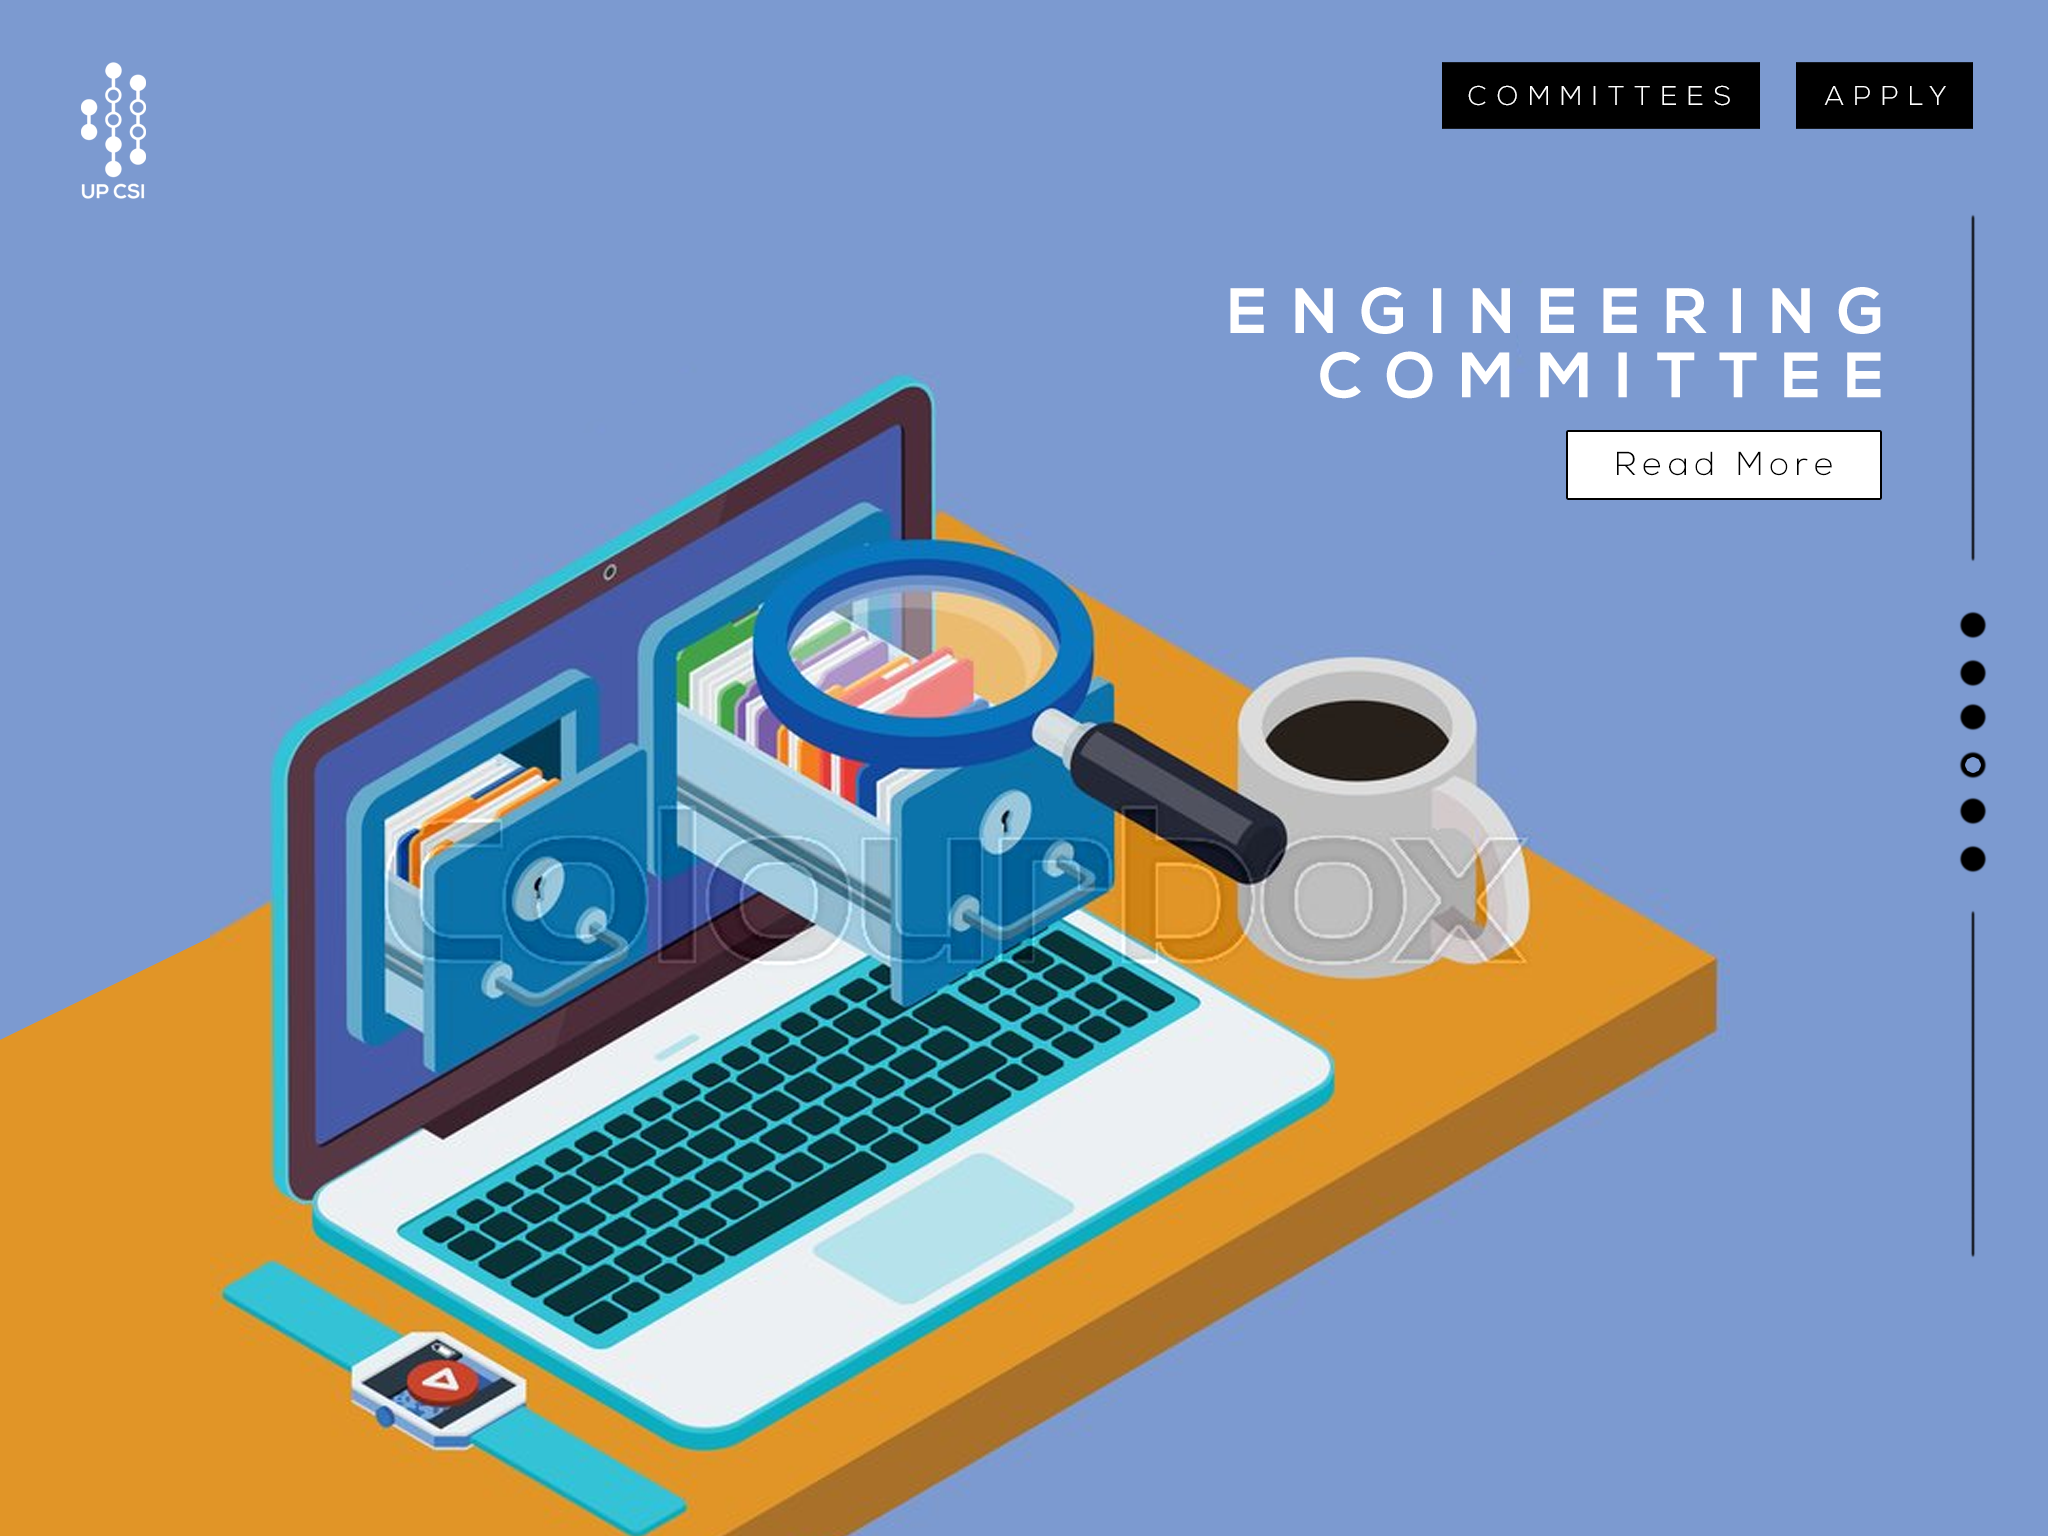
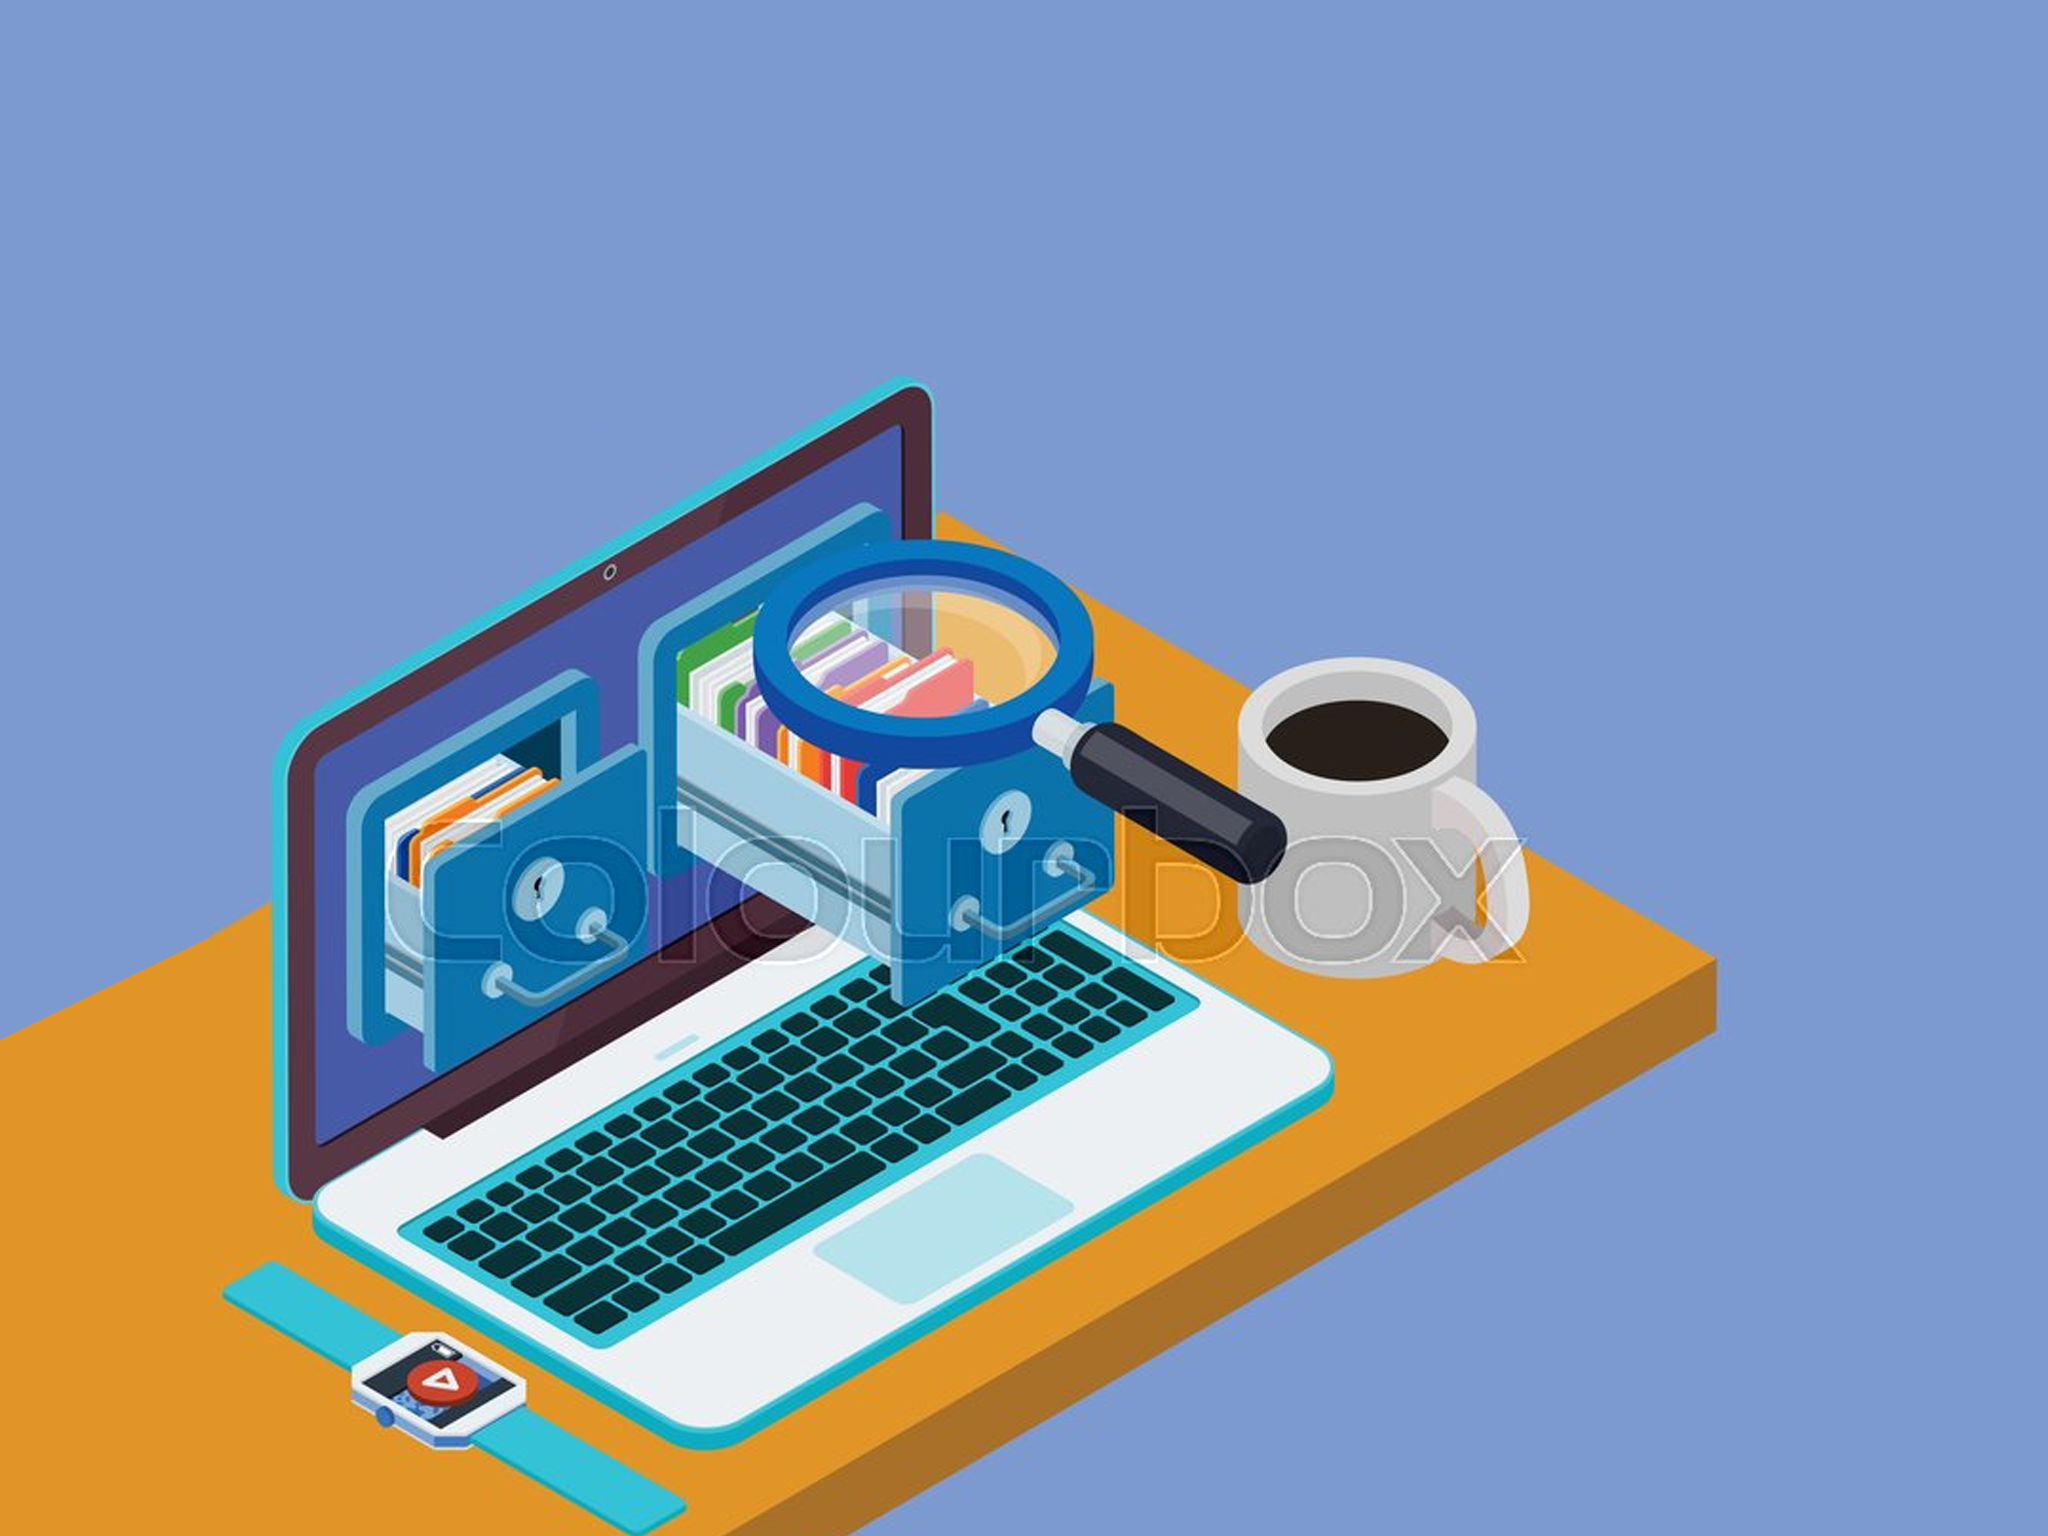
Added title, read more button, vertical dots

diff --git a/appsor-frontend/src/components/presentational/design/CommCarousel.js b/appsor-frontend/src/components/presentational/design/CommCarousel.js
@@ -1,7 +1,9 @@
-import React, { Component } from 'react';
+import React from 'react';
 import PropTypes from 'prop-types';
 import Slider from "react-slick";
 import "../../../assets/stylesheets/Carousel.css";
+
+import { Button } from 'semantic-ui-react'
 
 import enggcomm from "../../../assets/images/carousel/enggcomm.png";
 
@@ -20,7 +22,7 @@ function SamplePrevArrow(props) {
   const { className, style, onClick } = props;
   return (
 		<div
-			className={className}
+			className={className + " slider-arrows"}
 			style={{ ...style, display: "block", background: "black" }}
 			onClick={onClick}
 		/>
@@ -36,27 +38,48 @@ function CommCarousel(props){
 		slidesToScroll: 1,
 		arrows: true,
 		className: 'carousel-main',
-		nextArrow: <SampleNextArrow className="slider-arrows"/>,
-		prevArrow: <SamplePrevArrow className="slider-arrows"/>,
+		nextArrow: <SampleNextArrow />,
+		prevArrow: <SamplePrevArrow />,
+    dotsClass: 'slick-dots carousel-dots'
 	};
 
   return (
 		<div className="carousel-container">
 			<Slider {...settings}>
         <div className="carousel-div">
-          <img src={enggcomm} />
+          <img src={enggcomm} alt='engg-comm'/>
+          <div className="slide-title">
+            <p>ENGINEERINGG<br/>COMMITTEE</p>
+          </div>
+          <Button>Read more</Button>
         </div>
         <div className="carousel-div">
-          <img src="http://placehold.it/1000x400/ffffff/c0392b/&text=slide2" />
+          <img src={enggcomm} alt='engg-comm'/>
+          <div className="slide-title">
+            <p>ENGINEERINGG<br/>COMMITTEE</p>
+          </div>
+          <Button>Read more</Button>
         </div>
         <div className="carousel-div">
-          <img src="https://i.ytimg.com/vi/IF9OaXTzoRs/maxresdefault.jpg" />
+          <img src="https://i.ytimg.com/vi/IF9OaXTzoRs/maxresdefault.jpg" alt='platelets'/>
+          <div className="slide-title">
+            <p>PLATELET<br/>COMMITTEE</p>
+          </div>
+            <Button>Read more</Button>
         </div>
         <div className="carousel-div">
-          <img src="http://placekitten.com/g/400/200" />
+          <img src={enggcomm} alt='engg-comm'/>
+          <div className="slide-title">
+            <p>ENGINEERING<br/>COMMITTEE</p>
+          </div>
+          <Button>Read more</Button>
         </div>
 				<div className="carousel-div">
-					<img src="https://i.ytimg.com/vi/QiVZrzqwyR8/maxresdefault.jpg" />
+					<img src="https://i.ytimg.com/vi/QiVZrzqwyR8/maxresdefault.jpg" alt='nanachi'/>
+          <div className="slide-title">
+            <p>NANACHI<br/>COMMITTEE</p>
+          </div>
+          <Button>Read more</Button>
 				</div>
       </Slider>
 		</div>

diff --git a/appsor-frontend/src/assets/stylesheets/Carousel.css b/appsor-frontend/src/assets/stylesheets/Carousel.css
@@ -12,24 +12,38 @@
 	padding: 0px 75px;
 }
 
-.carousel-arrows {
-
-}
-
 .carousel-div {
 	display: inline-flex !important;
 	justify-content: center;
-	overflow: auto;
+	position: relative !important;
 }
 
 .carousel-div > img {
-	width: auto;
-	height: 600px;
-	object-fit: contain;
+	width: inherit;
+	height: 680px;
 }
 
-.slick-slider {
 
+.carousel-div > .slide-title {
+	font-family: 'Nexa Bold';
+	font-variant: small-caps;
+	font-size: 28px;
+	letter-spacing: 10px;
+	color: white;
+	position: absolute;
+	top: 15%;
+	right: 7%;
+}
+
+.carousel-div .slide-title p {
+	margin-bottom: 3px;
+	text-align: right;
+}
+
+.carousel-div > button {
+	position: absolute;
+	top: 30%;
+	right: 10%;
 }
 
 .slick-next {
@@ -40,6 +54,22 @@
 	 left: 25px;
 }
 
-.slick-dots {
-	left: -25px;
+.carousel-dots {
+	display: inline-flex !important;
+	flex-flow: column;
+	position: absolute;
+	z-index: 2;
+	left: 90%;
+	top: 42%;
+	width: 40px;
+}
+
+.carousel-dots li button::before {
+	font-size: 10px !important;
+	opacity: 1;
+}
+
+.carousel-dots li.slick-active button::before {
+	content: '\25ef';
+	border-color: black;
 }

diff --git a/appsor-frontend/src/components/presentational/forms/CommitteeForm.js b/appsor-frontend/src/components/presentational/forms/CommitteeForm.js
@@ -16,14 +16,6 @@ function Form(props) {
     return error;
   }
 
-  function getDropdownHelperText() {
-    let errorMessage = typeof (props.errors) !== 'undefined' ? props.errors.committee_id : undefined;
-    if (errorMessage === undefined) {
-      errorMessage = props.duplicates != null ? props.duplicates : undefined;
-    }
-    return errorMessage;
-  }
-
   return (
     <div className="column">
       <Image

diff --git a/appsor-frontend/src/components/presentational/view/SkillsInterestsView.js b/appsor-frontend/src/components/presentational/view/SkillsInterestsView.js
@@ -1,6 +1,6 @@
 import React from 'react';
 import PropTypes from 'prop-types';
-import { Segment, Label, Dropdown, Container } from 'semantic-ui-react';
+import { Dropdown, Container } from 'semantic-ui-react';
 
 function View(props) {
   return (
